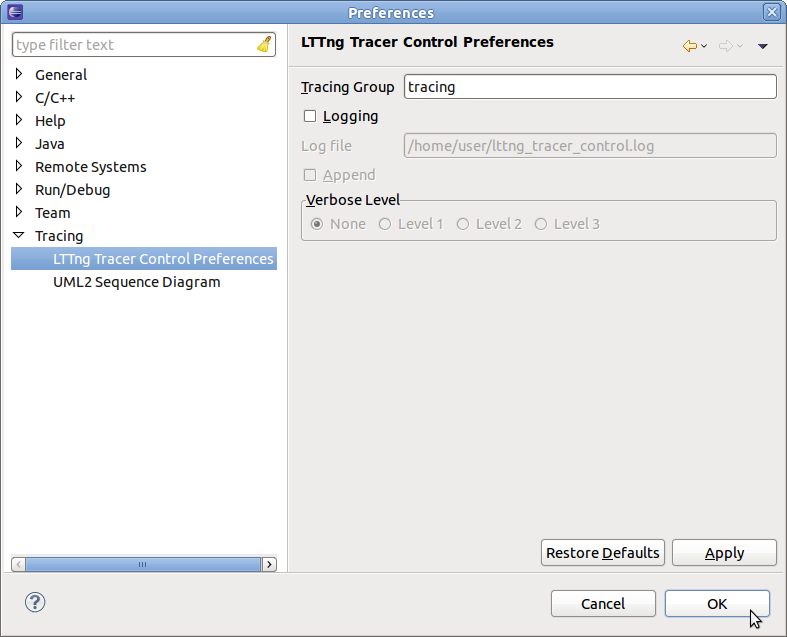
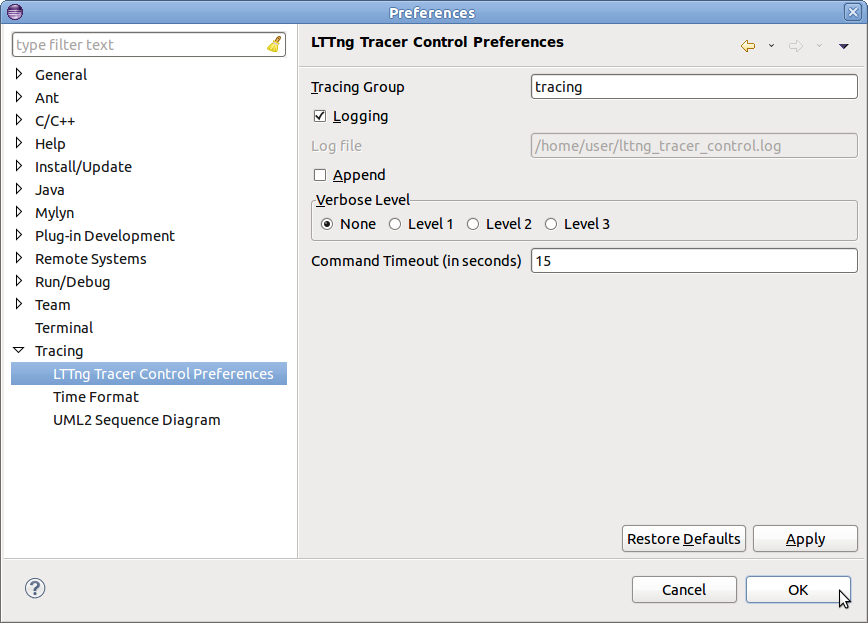
lttng: add command execution timeout preference
IP-Clean: Patrick Tasse <patrick.tasse@gmail.com>

diff --git a/lttng/org.eclipse.linuxtools.lttng2.ui/src/org/eclipse/linuxtools/internal/lttng2/ui/views/control/preferences/ControlPreferences.java b/lttng/org.eclipse.linuxtools.lttng2.ui/src/org/eclipse/linuxtools/internal/lttng2/ui/views/control/preferences/ControlPreferences.java
@@ -1,5 +1,5 @@
 /**********************************************************************
- * Copyright (c) 2012 Ericsson
+ * Copyright (c) 2012, 2013 Ericsson
  *
  * All rights reserved. This program and the accompanying materials are
  * made available under the terms of the Eclipse Public License v1.0 which
@@ -55,6 +55,10 @@ public class ControlPreferences {
      */
     public static final String TRACE_CONTROL_VERBOSE_LEVEL_PREF = "trace.control.verbose.level"; //$NON-NLS-1$
     /**
+     * The command time-out preference
+     */
+    public static final String TRACE_CONTROL_COMMAND_TIMEOUT_PREF = "trace.control.command.timeout"; //$NON-NLS-1$
+    /**
      * The verbose level value for none
      */
     public static final String TRACE_CONTROL_VERBOSE_LEVEL_NONE = "trace.control.verbose.level.none"; //$NON-NLS-1$
@@ -78,6 +82,18 @@ public class ControlPreferences {
      * The default tracing log file name with absolute path
      */
     public static final String TRACE_CONTROL_DEFAULT_LOG_PATH = System.getProperty("user.home") + File.separator + TRACE_CONTROL_LOG_FILENAME; //$NON-NLS-1$
+    /**
+     * Default timeout value used for executing commands, in seconds
+     */
+    public final static int TRACE_CONTROL_DEFAULT_TIMEOUT_VALUE = 15;
+    /**
+     * Minimum timeout value used for executing commands, in seconds
+     */
+    public final static int TRACE_CONTROL_MIN_TIMEOUT_VALUE = 5;
+    /**
+     * Maximum timeout value used for executing commands, in seconds
+     */
+    public final static int TRACE_CONTROL_MAX_TIMEOUT_VALUE = 600;
 
     // ------------------------------------------------------------------------
     // Attributes
@@ -163,6 +179,14 @@ public class ControlPreferences {
     public String getLogfilePath() {
         return fPreferenceStore.getString(TRACE_CONTROL_LOG_FILE_PATH_PREF);
     }
+
+    /**
+     * @return command timeout value
+     */
+    public int getCommandTimeout() {
+        return fPreferenceStore.getInt(TRACE_CONTROL_COMMAND_TIMEOUT_PREF);
+    }
+
 
     // ------------------------------------------------------------------------
     // Operations

diff --git a/lttng/org.eclipse.linuxtools.lttng2.ui/src/org/eclipse/linuxtools/internal/lttng2/ui/views/control/preferences/ControlPreferenceInitializer.java b/lttng/org.eclipse.linuxtools.lttng2.ui/src/org/eclipse/linuxtools/internal/lttng2/ui/views/control/preferences/ControlPreferenceInitializer.java
@@ -1,12 +1,12 @@
 /**********************************************************************
- * Copyright (c) 2012 Ericsson
- * 
+ * Copyright (c) 2012, 2013 Ericsson
+ *
  * All rights reserved. This program and the accompanying materials are
  * made available under the terms of the Eclipse Public License v1.0 which
  * accompanies this distribution, and is available at
  * http://www.eclipse.org/legal/epl-v10.html
- * 
- * Contributors: 
+ *
+ * Contributors:
  *   Bernd Hufmann - Initial API and implementation
  **********************************************************************/
 package org.eclipse.linuxtools.internal.lttng2.ui.views.control.preferences;
@@ -18,7 +18,7 @@ import org.eclipse.jface.preference.IPreferenceStore;
  * <p>
  * A class to initialize the preferences.
  * </p>
- * 
+ *
  * @author Bernd Hufmann
  */
 public class ControlPreferenceInitializer extends AbstractPreferenceInitializer {
@@ -34,7 +34,8 @@ public class ControlPreferenceInitializer extends AbstractPreferenceInitializer 
         store.setDefault(ControlPreferences.TRACE_CONTROL_TRACING_GROUP_PREF, ControlPreferences.TRACE_CONTROL_DEFAULT_TRACING_GROUP);
         store.setDefault(ControlPreferences.TRACE_CONTROL_LOG_APPEND_PREF, false);
         store.setDefault(ControlPreferences.TRACE_CONTROL_LOG_FILE_PATH_PREF, ControlPreferences.TRACE_CONTROL_DEFAULT_LOG_PATH);
-        store.setDefault(ControlPreferences.TRACE_CONTROL_LOG_COMMANDS_PREF, false); 
+        store.setDefault(ControlPreferences.TRACE_CONTROL_LOG_COMMANDS_PREF, false);
         store.setDefault(ControlPreferences.TRACE_CONTROL_VERBOSE_LEVEL_PREF, ControlPreferences.TRACE_CONTROL_VERBOSE_LEVEL_NONE);
+        store.setDefault(ControlPreferences.TRACE_CONTROL_COMMAND_TIMEOUT_PREF, ControlPreferences.TRACE_CONTROL_DEFAULT_TIMEOUT_VALUE);
     }
 }

diff --git a/lttng/org.eclipse.linuxtools.lttng2.ui/src/org/eclipse/linuxtools/internal/lttng2/ui/views/control/remote/CommandShell.java b/lttng/org.eclipse.linuxtools.lttng2.ui/src/org/eclipse/linuxtools/internal/lttng2/ui/views/control/remote/CommandShell.java
@@ -1,5 +1,5 @@
 /**********************************************************************
- * Copyright (c) 2012 Ericsson
+ * Copyright (c) 2012, 2013 Ericsson
  *
  * All rights reserved. This program and the accompanying materials are
  * made available under the terms of the Eclipse Public License v1.0 which
@@ -29,6 +29,7 @@ import org.eclipse.core.commands.ExecutionException;
 import org.eclipse.core.runtime.IProgressMonitor;
 import org.eclipse.core.runtime.NullProgressMonitor;
 import org.eclipse.linuxtools.internal.lttng2.ui.views.control.messages.Messages;
+import org.eclipse.linuxtools.internal.lttng2.ui.views.control.preferences.ControlPreferences;
 import org.eclipse.rse.services.shells.HostShellProcessAdapter;
 import org.eclipse.rse.services.shells.IHostShell;
 import org.eclipse.rse.services.shells.IShellService;
@@ -61,9 +62,6 @@ public class CommandShell implements ICommandShell {
 
     /** Default command separator */
     public final static char CMD_SEPARATOR = ';';
-
-    /** Default timeout value used for executing commands, in milliseconds */
-    private final static int DEFAULT_TIMEOUT_VALUE = 15000;
 
     // ------------------------------------------------------------------------
     // Attributes
@@ -212,7 +210,7 @@ public class CommandShell implements ICommandShell {
             fExecutor.execute(future);
 
             try {
-                return future.get(DEFAULT_TIMEOUT_VALUE, TimeUnit.MILLISECONDS);
+                return future.get(ControlPreferences.getInstance().getCommandTimeout(), TimeUnit.SECONDS);
             } catch (java.util.concurrent.ExecutionException ex) {
                 throw new ExecutionException(Messages.TraceControl_ExecutionFailure, ex);
             } catch (InterruptedException ex) {

diff --git a/lttng/org.eclipse.linuxtools.lttng2.ui/src/org/eclipse/linuxtools/internal/lttng2/ui/views/control/preferences/ControlPreferencePage.java b/lttng/org.eclipse.linuxtools.lttng2.ui/src/org/eclipse/linuxtools/internal/lttng2/ui/views/control/preferences/ControlPreferencePage.java
@@ -1,5 +1,5 @@
 /**********************************************************************
- * Copyright (c) 2012 Ericsson
+ * Copyright (c) 2012, 2013 Ericsson
  *
  * All rights reserved. This program and the accompanying materials are
  * made available under the terms of the Eclipse Public License v1.0 which
@@ -15,6 +15,7 @@ import org.eclipse.jface.preference.BooleanFieldEditor;
 import org.eclipse.jface.preference.FieldEditor;
 import org.eclipse.jface.preference.FieldEditorPreferencePage;
 import org.eclipse.jface.preference.IPreferenceStore;
+import org.eclipse.jface.preference.IntegerFieldEditor;
 import org.eclipse.jface.preference.RadioGroupFieldEditor;
 import org.eclipse.jface.preference.StringFieldEditor;
 import org.eclipse.jface.util.PropertyChangeEvent;
@@ -114,6 +115,10 @@ public class ControlPreferencePage extends FieldEditorPreferencePage implements 
         fVerboseLevel.setEnabled(enabled, getFieldEditorParent());
         fIsAppend.setEnabled(enabled, getFieldEditorParent());
         logfile.setEnabled(false, getFieldEditorParent());
+
+        IntegerFieldEditor commandTimeout = new IntegerFieldEditor(ControlPreferences.TRACE_CONTROL_COMMAND_TIMEOUT_PREF, Messages.TraceControl_CommandTimeout, getFieldEditorParent());
+        commandTimeout.setValidRange(ControlPreferences.TRACE_CONTROL_MIN_TIMEOUT_VALUE, ControlPreferences.TRACE_CONTROL_MAX_TIMEOUT_VALUE);
+        addField(commandTimeout);
     }
 
     /*

diff --git a/lttng/org.eclipse.linuxtools.lttng2.ui/src/org/eclipse/linuxtools/internal/lttng2/ui/views/control/messages/Messages.java b/lttng/org.eclipse.linuxtools.lttng2.ui/src/org/eclipse/linuxtools/internal/lttng2/ui/views/control/messages/Messages.java
@@ -255,6 +255,7 @@ final public class Messages extends NLS {
     public static String TraceControl_LoggingPreference;
     public static String TraceControl_LogfilePath;
     public static String TraceControl_AppendLogfilePreference;
+    public static String TraceControl_CommandTimeout;
 
     public static String TraceControl_VerboseLevelsPreference;
     public static String TraceControl_VerboseLevelNonePreference;
